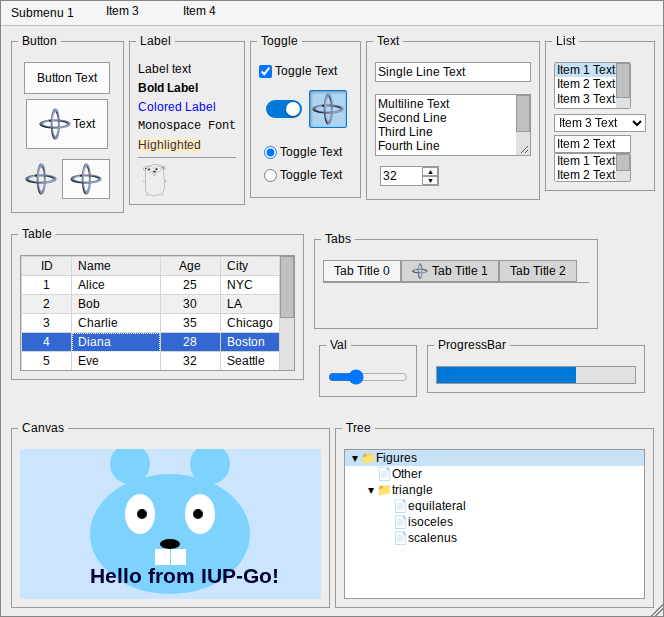
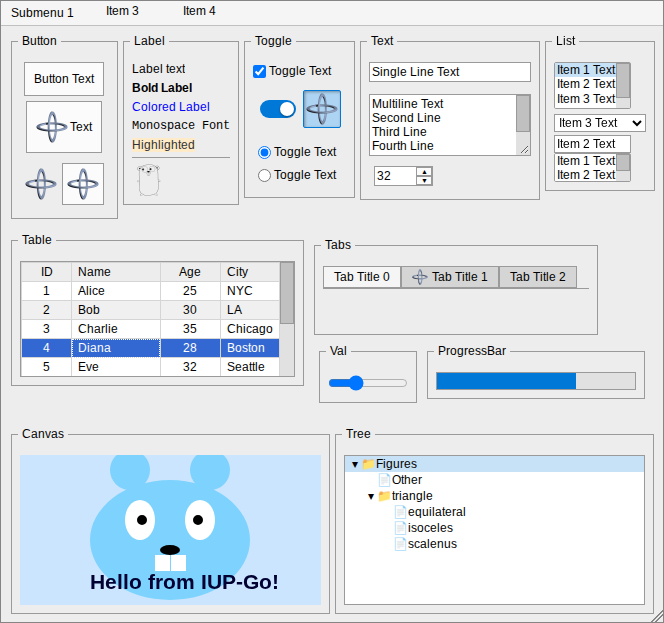
wasm: Fix the button padding

diff --git a/iup/external/src/wasm/iupwasm_button.c b/iup/external/src/wasm/iupwasm_button.c
@@ -86,11 +86,20 @@ static int wasmButtonSetDefaultAttrib(Ihandle* ih, const char* value)
   return 1;
 }
 
+/* the button's own padding inside its 1px border, PADDING is added to it */
+#define WASM_BUTTON_PADX 4
+#define WASM_BUTTON_PADY 4
+
+static void wasmButtonUpdatePadding(Ihandle* ih)
+{
+  iupwasmJsSetPadding(iupwasmIdOf(ih), WASM_BUTTON_PADX + ih->data->horiz_padding, WASM_BUTTON_PADY + ih->data->vert_padding);
+}
+
 static int wasmButtonSetPaddingAttrib(Ihandle* ih, const char* value)
 {
   iupStrToIntInt(value, &ih->data->horiz_padding, &ih->data->vert_padding, 'x');
   if (ih->handle)
-    iupwasmJsSetPadding(iupwasmIdOf(ih), ih->data->horiz_padding, ih->data->vert_padding);
+    wasmButtonUpdatePadding(ih);
   return 0;
 }
 
@@ -110,6 +119,7 @@ static int wasmButtonMapMethod(Ihandle* ih)
   ih->handle = (InativeHandle*)(intptr_t)id;
   iupwasmRegisterHandle(id, ih);
   iupwasmJsButtonStyle(id);
+  wasmButtonUpdatePadding(ih);
 
   title = iupAttribGet(ih, "TITLE");
   image = iupAttribGet(ih, "IMAGE");
@@ -163,8 +173,8 @@ static int wasmButtonSetBgColorAttrib(Ihandle* ih, const char* value)
 IUP_SDK_API void iupdrvButtonAddBorders(Ihandle* ih, int* x, int* y)
 {
   (void)ih;
-  if (x) *x += 16;
-  if (y) *y += 8;
+  if (x) *x += 2 * (WASM_BUTTON_PADX + 1);
+  if (y) *y += 2 * (WASM_BUTTON_PADY + 1);
 }
 
 IUP_SDK_API void iupdrvButtonInitClass(Iclass* ic)
